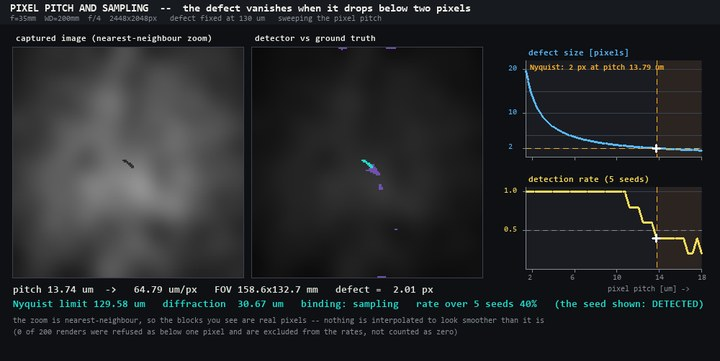
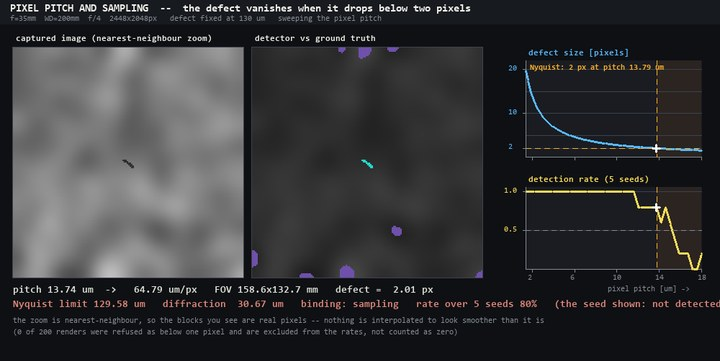
auto: gen_wingstudio_gallery.py 編集前 (2026-09-02 04:15)

diff --git a/tools/gen_wingstudio_gallery.py b/tools/gen_wingstudio_gallery.py
@@ -453,9 +453,11 @@ def voxel_mesh_to_world(Vz, F):
     ★ここが罠。``V[:, ::-1]`` は軸の**入れ替え**ではなく**鏡映**(行列式 -1)なので、
     座標だけ直すと三角形の巻き方向が全部裏返る = 閉じたメッシュが「内向き」になる。
     実測: 段付き部品の符号つき体積は marching cubes 直後 +37294.7(占有ボクセル
-    35746 とほぼ一致)、``[:, ::-1]`` 後は **-37294.7**。この状態で
-    ``cadmap`` の裏面カリングを効かせると、本来の遮蔽面が捨てられて
-    可視率が 85.7 % と過大に出る(正しくは面積比で約 51 %)。
+    35746 とほぼ一致)、``[:, ::-1]`` 後は **-37294.7**。かつてこの状態を
+    ``cadmap`` に渡すと裏面カリングが本来の遮蔽面を捨てて可視率が 85.7 % と
+    過大に出た(正しくは面積比で約 51 %)。現在の ``cadmap`` は巻き方向を
+    検めて直し ``winding_fixed`` で報告する(``cad_visible_faces`` は既定で拒否)
+    ので黙って通ることは無いが、**呼ぶ側で正しく直すのが本筋**なので、ここでは
     面の巻き方向も同時に裏返して打ち消す。
     """
     return (np.ascontiguousarray(np.asarray(Vz, np.float64)[:, ::-1]),

diff --git a/docs/articles/exhibits/wingopt.md b/docs/articles/exhibits/wingopt.md
@@ -89,7 +89,7 @@
 
 [![検出限界マップ](https://raw.githubusercontent.com/furuse-kazufumi/fullseye/master/docs/articles/assets/wingopt_detect_map_thumb.jpg)](https://raw.githubusercontent.com/furuse-kazufumi/fullseye/master/docs/articles/assets/wingopt_detect_map.png)
 
-*↑ **検出限界マップ** ―― 欠陥サイズ(横・対数)とコントラスト(縦)の平面で検出率を測ると、**光学限界 32.53 µm(sampling 律速)は縦の直線として動かず**、実際の検出境界(白線 = 実測 50 % 等高線)はその右に寝ています。コントラスト 0.03 では 231 µm(限界の 7.10 倍)必要なのに、0.40 まで上げると 33 µm(1.00 倍)で足ります —— **右側はレンズの問題ではありません**。 使用 op: `render_part`, `system_geometry`, `resolving_power`, `draw_polyline`, `draw_line`。*
+*↑ **検出限界マップ** ―― 欠陥サイズ(横・対数)とコントラスト(縦)の平面で検出率を測ると、**光学限界 32.53 µm(sampling 律速)は縦の直線として動かず**、実際の検出境界(白線 = 実測 50 % 等高線)はその右に寝ています。コントラスト 0.06 では 53 µm(限界の 1.64 倍)必要なのに、0.40 まで上げると 28 µm(0.85 倍)で足ります —— **右側はレンズの問題ではありません**。 使用 op: `render_part`, `system_geometry`, `resolving_power`, `draw_polyline`, `draw_line`。*
 
 <small>クリックで原寸 (1028×488 px / 40 kB)。</small>
 
@@ -105,9 +105,9 @@
 
 ![画素ピッチとサンプリング](https://raw.githubusercontent.com/furuse-kazufumi/fullseye/master/docs/articles/assets/media/wingopt_pixel_pitch.gif)
 
-*↑ **画素ピッチとサンプリング** ―― 130 µm の傷を固定して画素ピッチだけを粗くすると、欠陥が **2 画素を割るのはピッチ 13.79 µm** (Nyquist の境界)で、実測の 50 % 検出が保つのはピッチ **13.32 µm** までです。拡大は最近傍なので**見えている四角は本物の画素**で、滑らかに見せるための補間は入れていません。 使用 op: `render_part`, `system_geometry`, `resolving_power`, `draw_polyline`。*
+*↑ **画素ピッチとサンプリング** ―― 130 µm の傷を固定して画素ピッチだけを粗くすると、欠陥が **2 画素を割るのはピッチ 13.79 µm** (Nyquist の境界)で、実測の 50 % 検出が保つのはピッチ **15.02 µm** までです。拡大は最近傍なので**見えている四角は本物の画素**で、滑らかに見せるための補間は入れていません。 使用 op: `render_part`, `system_geometry`, `resolving_power`, `draw_polyline`。*
 
-<small>静止フレームでも読めます(静止サムネ: `https://raw.githubusercontent.com/furuse-kazufumi/fullseye/master/docs/articles/assets/thumbs/wingopt_pixel_pitch_thumb.jpg`)。40 フレーム / 10 fps / 1000×502 px / 0.70 MB。</small>
+<small>静止フレームでも読めます(静止サムネ: `https://raw.githubusercontent.com/furuse-kazufumi/fullseye/master/docs/articles/assets/thumbs/wingopt_pixel_pitch_thumb.jpg`)。40 フレーム / 10 fps / 1000×502 px / 0.58 MB。</small>
 
 ---
 
@@ -125,6 +125,6 @@
 | Airy パターンと Rayleigh 基準 | GIF | 1000×516 | 33 | 2312 kB | `5d8a032aef0b8560` |
 | 偏光で金属のテカりを消す | GIF | 1000×492 | 31 | 2651 kB | `7201c5f510b43e36` |
 | thin lens / ABCD 行列 | GIF | 1000×474 | 39 | 533 kB | `9b69c483a02265f2` |
-| 検出限界マップ | PNG | 1028×488 | 1 | 40 kB | `dbf3d8317f993d48` |
+| 検出限界マップ | PNG | 1028×488 | 1 | 40 kB | `81b870b0b2bbbd90` |
 | 照明を変えると何が見えるか | GIF | 1000×502 | 33 | 297 kB | `9de5ff51d03720e0` |
-| 画素ピッチとサンプリング | GIF | 1000×502 | 40 | 697 kB | `ea32b17b5ff362f2` |
+| 画素ピッチとサンプリング | GIF | 1000×502 | 40 | 577 kB | `54e2158fdb88a94a` |
